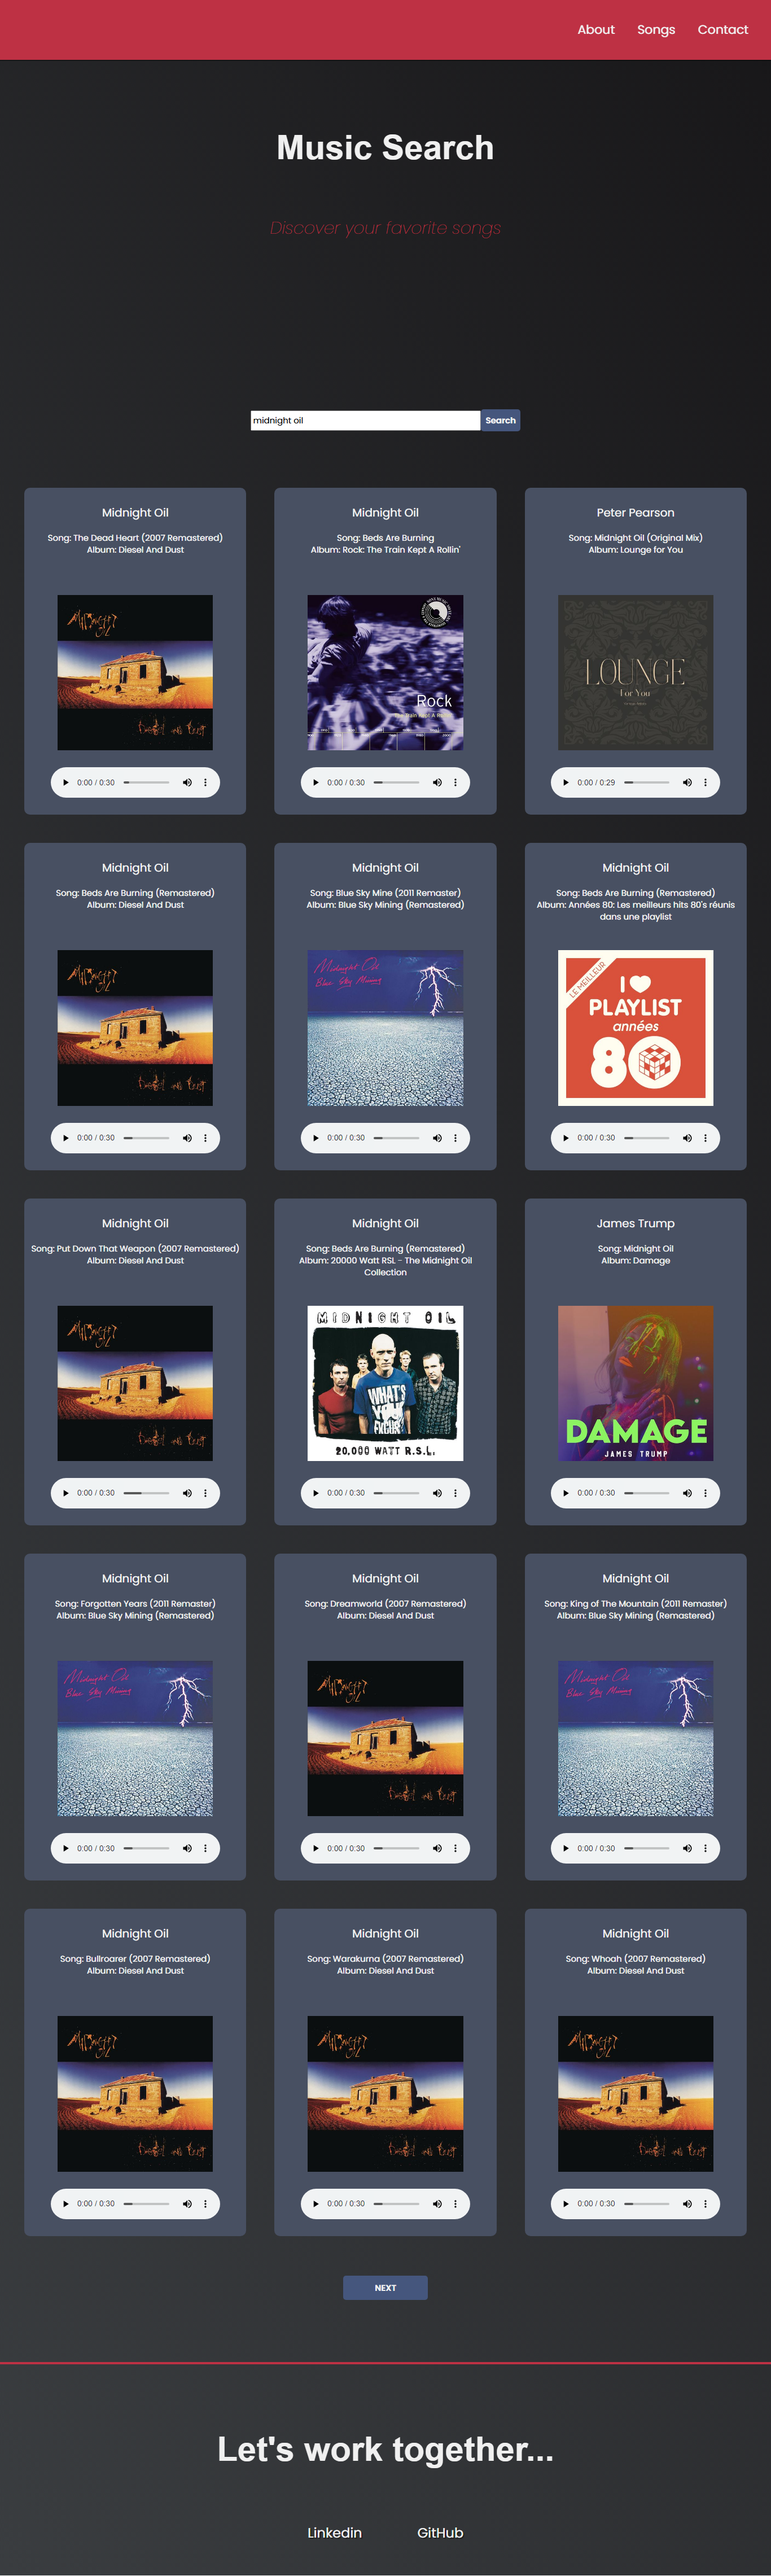
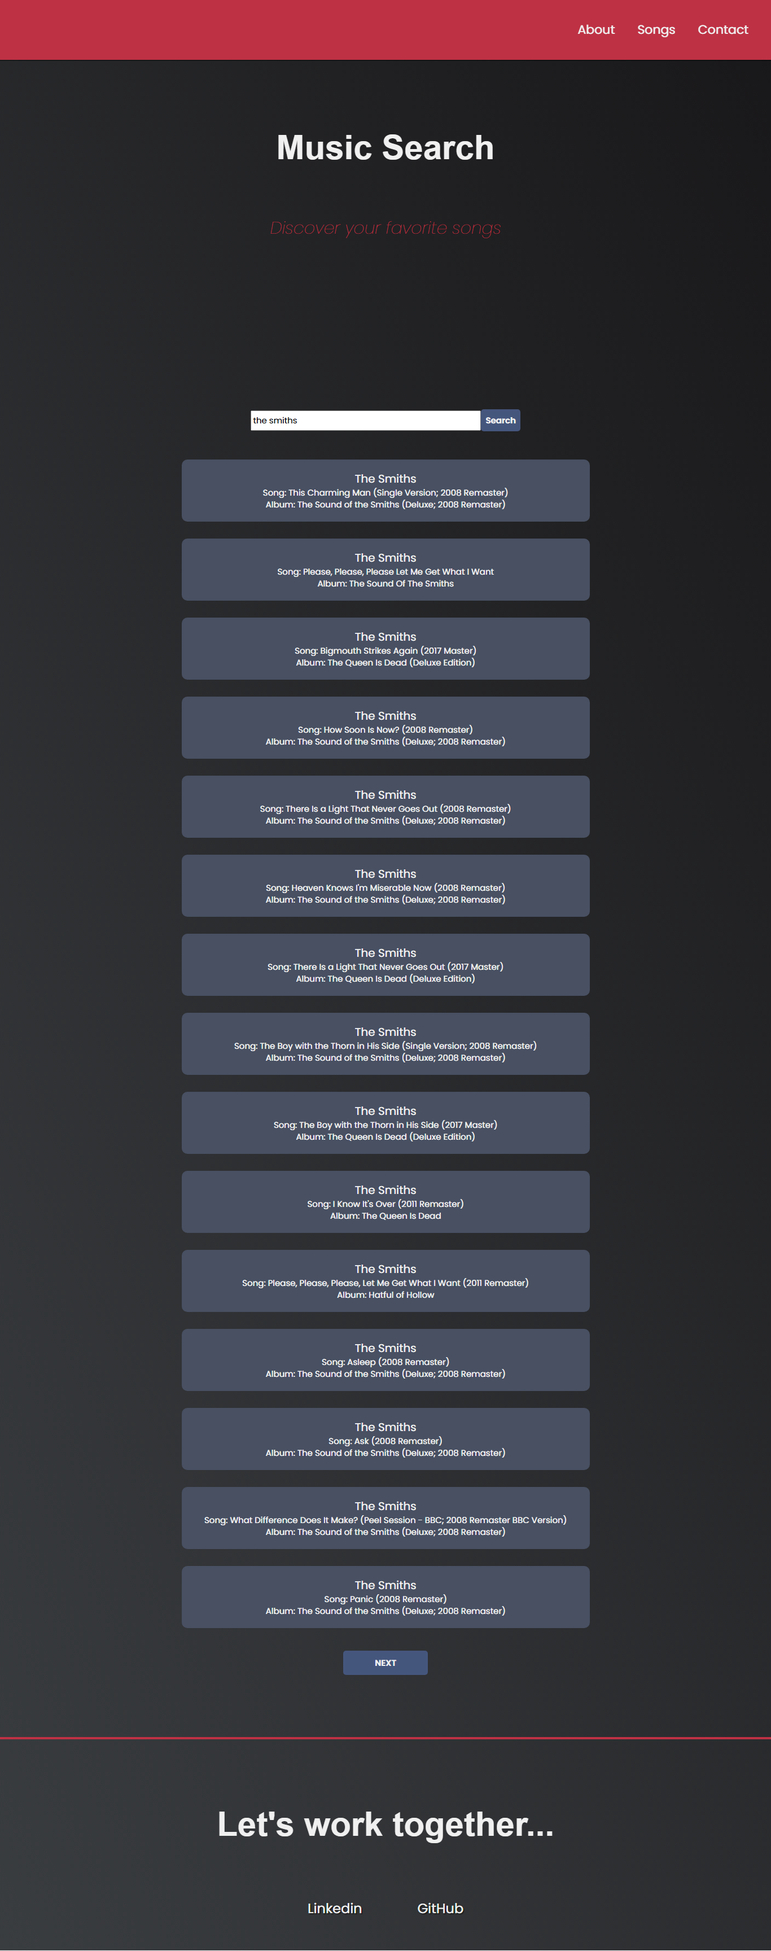
Changes in song information and being displayed

diff --git a/src/index.scss b/src/index.scss
@@ -50,10 +50,6 @@ code {
     monospace;
 }
 
-#root {
-  height: 100%;
-}
-
 h1, h2 {
   font-family: 'Raleway', sans-serif;
   font-weight: 700;
@@ -73,6 +69,7 @@ a {
   color: $main-white;
 }
 
+/*
 img {
   display: block;
   width: 70%;
@@ -83,7 +80,7 @@ img {
 audio {
   padding: 2rem;
   margin-bottom: 1rem;
-}
+}*/
 
 ul {
   list-style: none;
@@ -136,7 +133,7 @@ ul {
 
 /* Music section ----------------------------------------------------*/
 .form {
-  margin-bottom: 10rem;
+  margin-bottom: 5rem;
 }
 
 .search-button{
@@ -155,6 +152,40 @@ ul {
 .search-button:hover{
   background-color: #37445f;
   transition: 0.5s;
+}
+
+.input-search {
+  @include widthHeight(40rem, 3rem);
+  font-family: $font-family;
+  font-size: 1.5rem;  
+}
+
+.input-search:focus{
+  outline: none;
+}
+
+.warning-text{
+  padding: 2rem;
+}
+
+.music-section {
+  text-align: center;
+  padding: 10rem 0;
+}
+
+.card-song{
+  @extend .displayFlexCenter; 
+  flex-direction: column;
+  background-color: $main-blue-clear;
+  border-radius: 10px;  
+  margin: 3rem auto;
+  padding: 2rem;
+  width: 50%; 
+  font-size: 1.5rem;
+}
+
+.song-title {
+  font-size: 2rem; 
 }
 
 .previous-button, .next-button {
@@ -177,53 +208,7 @@ ul {
   outline: none;
 }
 
-.input-search {
-  @include widthHeight(40rem, 3rem);
-  font-family: $font-family;
-  font-size: 1.5rem;  
-}
 
-.input-search:focus{
-  outline: none;
-}
-
-.warning-text{
-  padding: 2rem;
-}
-
-.music-section {
-  text-align: center;
-  padding: 10rem 0;
-}
-
-.music-grid {
-  display: grid;
-  grid-template-columns: repeat(auto-fit, minmax(320px, 1fr));
-  grid-gap: 5rem;
-  width: 95%;
-  max-width: 1280px;
-  margin: 0 auto;
-  margin-bottom: 6rem;  
-}
-
-.card-song{
-  @extend .displayFlexCenter;
-  flex-direction: column;  
-  background-color: $main-blue-clear;
-  border-radius: 10px;
-}
-
-
-.song-information{
-  height: 17rem;
-  margin: 1rem;
-  font-size: 1.5rem;
-}
-
-.song-title {
-  font-size: 2rem;
-  padding: 2rem 0.5rem;
-}
 
 /*Footer------------------------------------------------------*/
 .contact-section {
@@ -258,7 +243,7 @@ ul {
 
 /*Media query-------------------------------------------------*/
 
-@media (max-width: 600px) {
+@media (max-width: 700px) {
   h1 {
     font-size: 3rem;
   }
@@ -280,11 +265,15 @@ ul {
   }
 
   .input-search {
-    @include widthHeight(70%, 3rem);
+    @include widthHeight(60%, 3rem);
+  }
+
+  .card-song{ 
+    width: 80%;     
   }
   
   .contact-section-header > h2 {
-    font-size: 3rem;
+    font-size: 2.5rem;
   }
 
   .contact-details {
@@ -297,7 +286,5 @@ ul {
     padding: 6rem 1rem;
   }
 
-  .music-grid {
-    grid-template-columns: 1fr;
-  }
+ 
 }

diff --git a/src/components/Search.tsx b/src/components/Search.tsx
@@ -1,3 +1,4 @@
+import React from 'react'
 import {ChangeEvent, FormEvent, useState} from 'react'
 import axios from 'axios'
 import {apiURL, applyCors} from '../Api'
@@ -99,29 +100,18 @@ const Search = () => {
         {
           error ? 
           <div>Something went wrong ...</div>
-          :      
-          <div className='music-grid'> 
-            {musicData?.data.map(item =>   
-
-              <div key={item.id} className='card-song'>
-                <div className='song-information'>
-                  <div className='song-title'>{item.artist.name}</div> 
-                  <div>Song: {item.title}</div> 
-                  <div>Album: {item.album.title}</div>  
-                </div>          
-                <img 
-                  className='album-image'
-                  src={item.album.cover_big ? item.album.cover_big:imageAlternative} 
-                  alt='album cover'
-                />
-                <audio controls>
-                  <source src={item.preview} type='audio/mpeg'/>
-                </audio>
-              </div>           
-            )}
-          </div>         
+          :   
+          musicData?.data.map(item =>
+            <div key={item.id} className='card-song'>               
+                <div className='song-title'>{item.artist.name}</div> 
+                <div>Song: {item.title}</div> 
+                <div>Album: {item.album.title}</div>                
+            </div>           
+          )
+       
         }   
         
+        {console.log(musicData?.data)}
         {/*showing the buttons to change the page------------------------------*/}
         <div className='scrolling-box'>
           {

diff --git a/public/index.html b/public/index.html
@@ -5,6 +5,7 @@
     <link rel="icon" href="%PUBLIC_URL%/favicon.png" />
     <meta name="viewport" content="width=device-width, initial-scale=1" />
     <meta name="theme-color" content="#000000" />
+    <meta content="Content-Security-Policy"/>
     <meta
       name="description"
       content="Web site created using create-react-app"

diff --git a/src/App.tsx b/src/App.tsx
@@ -1,6 +1,8 @@
+import React from 'react'
 import Header from './components/Header'
 import Main from './components/Main'
 import Footer from './components/Footer'
+
 
 const App = () => {
   return (

diff --git a/src/components/Main.tsx b/src/components/Main.tsx
@@ -1,4 +1,6 @@
+import React from 'react'
 import Search from './Search'
+
 
 const Main = () => {
   return(

diff --git a/src/components/Footer.tsx b/src/components/Footer.tsx
@@ -1,3 +1,4 @@
+import React from 'react'
 
 const Footer = () => {
   return(

diff --git a/src/components/Header.tsx b/src/components/Header.tsx
@@ -1,3 +1,4 @@
+import React from 'react'
 
 const Header = () => {
   return(
